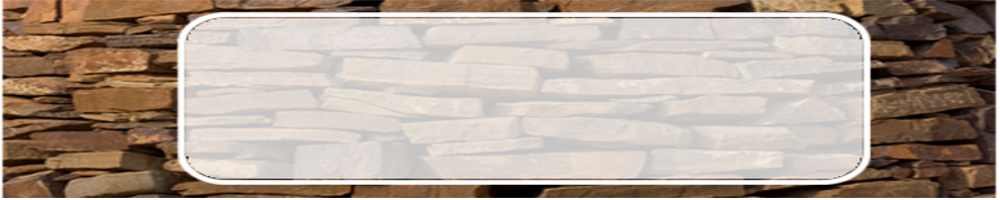
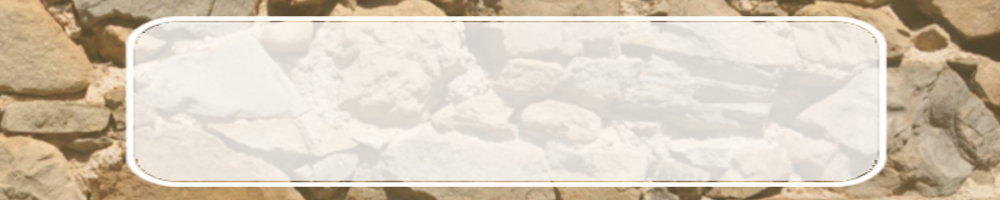
Resized textbox and speaker sprite capability. Read the top of UI.js for basic client "how to" info

diff --git a/src/UI.js b/src/UI.js
@@ -10,6 +10,12 @@
  *   You can set a breakpoint after which the next text will appear
  *   in a clear window by typing '\n'
  *
+ *   The openDialog function takes three variables-
+ *   openDialog("text you want",
+ *   callback_function, //called at completion of all text scrolling
+ *   res.anySpeakerSprite_png );//or _jpg, of course.
+ *   >>Make your speakerSprite 130x130, please.<<
+ *
  */
 var TextBoxLayer = cc.Layer.extend({
 	STATE: {
@@ -25,8 +31,10 @@ var TextBoxLayer = cc.Layer.extend({
 	CLOSING_TIME: 0.5,
 	CLOSED_OFFSET_Y: -100,
 	OPEN_OFFSET_Y: 100,
-	LINE_LENGTH: 100,
+	LINE_LENGTH: 70,
 	LINES_PER_DIALOG: 4,
+	ON_YOUR_LEFT: true,
+	SPEAKER_SPRITE_OFFSET: 400,
 	state: null,
 	dialogs: null,
 	currentDialog: null,
@@ -45,7 +53,8 @@ var TextBoxLayer = cc.Layer.extend({
 		this.label = new cc.LabelTTF('', 'Arial', 20);
 		this.label.setColor(0,0,0,0);
 		this.background = new cc.Sprite(res.Textbox_png);
-		this.callBack=null;
+		this.callBack=null;     //both of these variables will
+		this.speakerSprite=null;//be defined when openDialog is called
 		
 		this.addChild(this.label, 5);
 		this.addChild(this.background);
@@ -83,13 +92,18 @@ var TextBoxLayer = cc.Layer.extend({
 				break;
 		}
 	},
-	openDialog: function(string, F) {
+	openDialog: function(string, F, picture) {
+		//make the picture 300x300 for best quality
 		this.dialogs = [];
 		var lines = [];
 		var line = '';
 		var index = 0;
 		var toomany = 0;
 		this.callBack=F;
+		if (picture!=null) {
+			this.speakerSprite = new cc.Sprite(picture);
+			this.addChild(this.speakerSprite);
+		}
 		while (index < string.length) {
 			var nextSpace = string.indexOf(' ', index);
 			var nextNewline = string.indexOf('\n', index);
@@ -134,57 +148,7 @@ var TextBoxLayer = cc.Layer.extend({
 		this.currentIndex = 0;
 		this.transitionState(this.STATE.OPENING);
 	},
-	openDialog: function(string, F) {
-		this.dialogs = [];
-		var lines = [];
-		var line = '';
-		var index = 0;
-		var toomany = 0;
-		this.callBack=F;
-		while (index < string.length) {
-			var nextSpace = string.indexOf(' ', index);
-			var nextNewline = string.indexOf('\n', index);
 
-			var chop = 0;
-			var endDialog = false;
-			if (nextSpace != -1 && (nextSpace < nextNewline || nextNewline == -1))
-				chop = nextSpace;
-			else {
-				chop = nextNewline;
-				endDialog = true;
-			}
-			if (chop == -1) {
-				chop = string.length;
-				endDialog = true;
-			} else
-				chop += 1;
-
-			var delta = chop - index;
-
-			if (line.length + delta > this.LINE_LENGTH) {
-				lines.push(line);
-				line = '';
-			}
-			line = (line + string.substring(index, chop)).replace('\n', '');
-			if (endDialog) {
-				lines.push(line);
-				line = '';
-				this.dialogs.push(lines.join('\n'));
-				lines = [];
-			}
-			if (lines.length >= this.LINES_PER_DIALOG)
-				this.dialogs.push(lines.splice(0, this.LINES_PER_DIALOG).join('\n'));
-			index = chop;
-
-			++toomany;
-			if (toomany > 1000)
-				break;
-		}
-
-		this.currentDialog = 0;
-		this.currentIndex = 0;
-		this.transitionState(this.STATE.OPENING);
-	},
 	closeDialog: function() {
 		this.transitionState(this.STATE.CLOSING);
 	},
@@ -198,6 +162,11 @@ var TextBoxLayer = cc.Layer.extend({
 		var position = cc.p(cc.winSize.width / 2, y);
 		this.label.setPosition(position);
 		this.background.setPosition(position);
+		var speakerOffset;
+		if (this.ON_YOUR_LEFT) speakerOffset=-this.SPEAKER_SPRITE_OFFSET;
+		else speakerOffset=this.SPEAKER_SPRITE_OFFSET;
+		var position2=cc.p(cc.winSize.width/2+speakerOffset, y);
+		this.speakerSprite.setPosition(position2);
 	},
 	update: function(dt) {
 		this.timer -= dt;

diff --git a/src/resource.js b/src/resource.js
@@ -1,12 +1,14 @@
 var res = {
-	TileGameResources_tmw_desert_spacing_png: "res\TileGameResources/tmw_desert_spacing.png",
-	TileGameResources_meta_tiles_png: "res\TileGameResources/meta_tiles.png",
-	TileGameResources_TileMap_tmx: "res\TileGameResources/TileMap.tmx",
+	TileGameResources_tmw_desert_spacing_png: "res/TileGameResources/tmw_desert_spacing.png",
+	Textbox_400width_png: "res/Textbox_400width.png",
+	TileSets_castle_architecture_png: "res/TileSets/castle_architecture.png",
+	TileGameResources_meta_tiles_png: "res/TileGameResources/meta_tiles.png",
+	TileGameResources_TileMap_tmx: "res/TileGameResources/TileMap.tmx",
 	HelloWorld_png: "res/HelloWorld.png",
-	TileGameResources_Player_png: "res\TileGameResources/Player.png",
+	TileGameResources_Player_png: "res/TileGameResources/Player.png",
 	target50x50_png: "res/target50x50.png",
-	TileSets_castle-architecture_png: "res\TileSets/castle-architecture.png",
-	Textbox_png: "res/Textbox.png"
+	Textbox_png: "res/Textbox.png",
+	MrBean_png: "res/demoSprite.png"
 };
 
 var g_resources = [];
